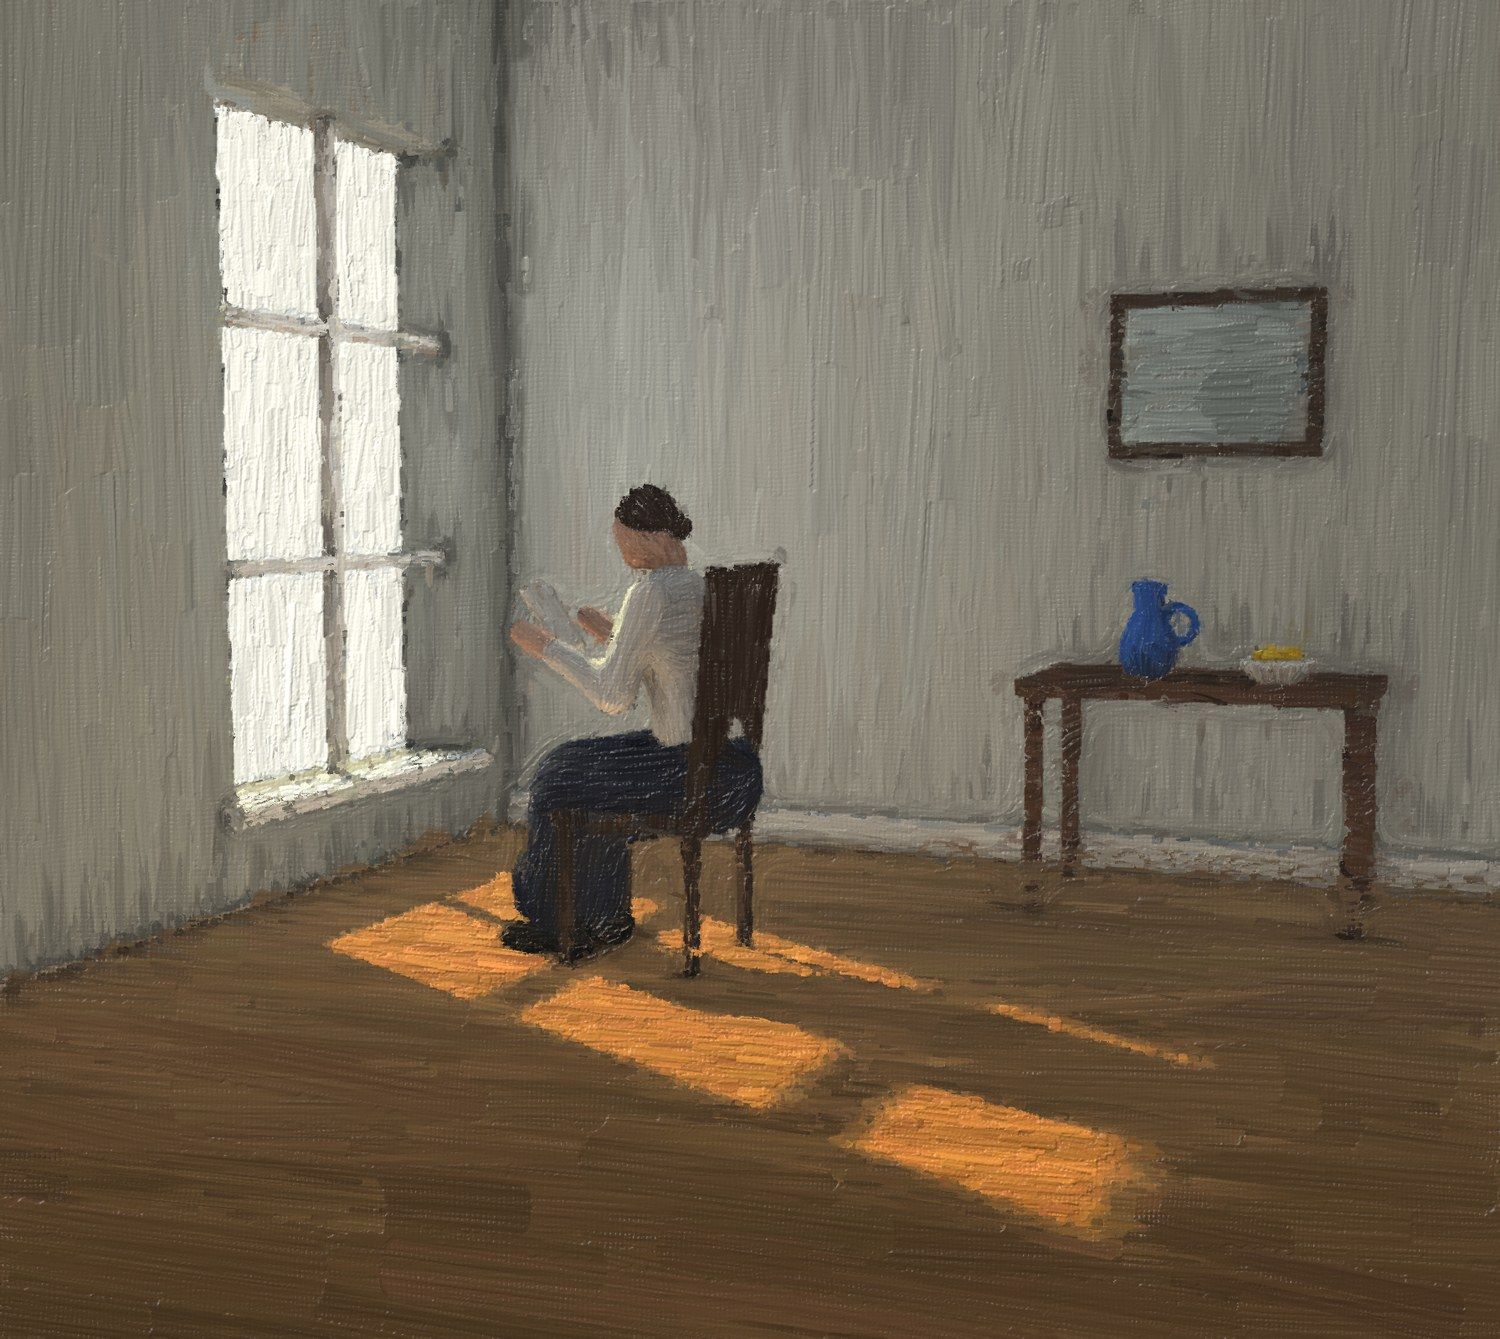
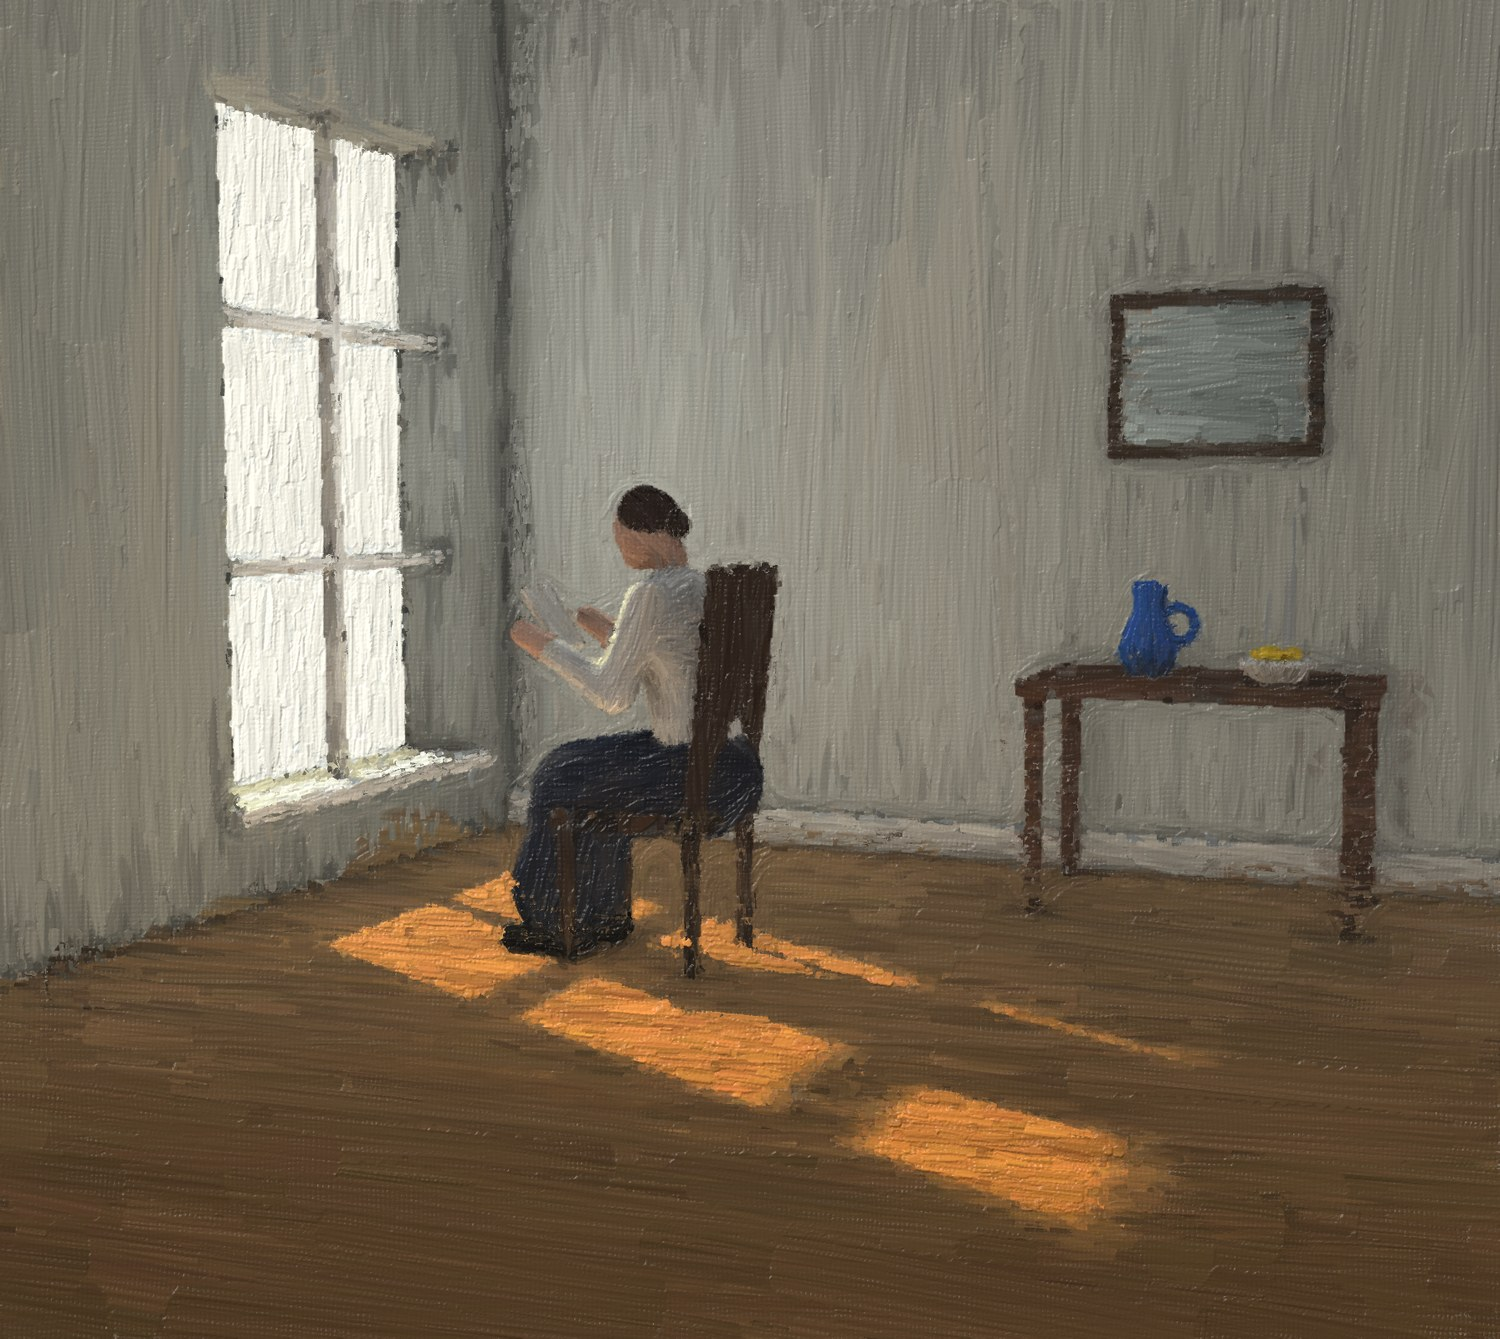
Stage masks for objects that share a name; motion.py drops stale frames first
- Scene.render joins the masks of objects with the same name instead of letting
  the last one replace the others. In The letter the knot of hair is now its own
  object (reader.hair.knot), so the reader's hair is planned and painted as a
  mass; the two published images are re-rendered from the corrected study.
- motion.py removes frames left by a film with other settings before it writes
  the new key, and a frame file appears only once it is whole, so an interrupted
  run cannot leave old frames under the new key.

Claude-Session: https://claude.ai/code/session_017dhVAAuNmHvMBg3wod6FzZ

diff --git a/skills/procedural-painting/scripts/motion.py b/skills/procedural-painting/scripts/motion.py
@@ -71,7 +71,8 @@ def render_frame(i):
     if not (G['reuse'] and os.path.exists(out)):
         p = Painting(G['W'], G['H'], seed=G['seed'], ground=G['ground'], log=False)
         p.replay(G['tape'], study_at(i))
-        p.save(out)
+        p.save(out + '.part.png')                             # a frame exists only once it is whole
+        os.replace(out + '.part.png', out)
     return i
 
 
@@ -113,6 +114,10 @@ def main():
     key = hashlib.sha1(repr((sig, W, H, a.keys, a.looseness, a.push, a.ground, a.seed, a.aov)).encode()).hexdigest()
     stamp = os.path.join(work, 'motion.key')
     reuse = os.path.exists(stamp) and open(stamp).read().strip() == key
+    if not reuse:                                            # frames of another film: gone before the new key is written
+        for f in [stamp] + [os.path.join(work, f'{i:05d}.png') for i in range(len(files))]:
+            if os.path.exists(f):
+                os.remove(f)
     with open(stamp, 'w') as f:
         f.write(key)
     G.update(files=files, W=W, H=H, push=a.push if a.push is not None else (1.0 if a.aov else 0.0),

diff --git a/skills/procedural-painting/studies/the_letter.py b/skills/procedural-painting/studies/the_letter.py
@@ -70,7 +70,7 @@ sc.add('chair', [box((FX - 0.16, SEAT - 0.02, FZ), (0.23, 0.02, 0.22)), box((FX 
 j = figure(sc, 'reader', at=(FX, 0, FZ), facing=-90, height=1.66, pose='read', seat=SEAT, skirt=True,
            top='#d9d3c5', bottom='#23252f', skin='#d2a184', hair='#33241c', shoes='#17130f', head_pitch=34, lean=10)
 mid = 0.5 * (j['hand_l'] + j['hand_r'])
-sc.add('reader.hair', ellipsoid(j['head'] + (0.085, 0.025, 0.0), (0.045, 0.042, 0.045)), '#33241c', importance=1.4)       # a knot of hair
+sc.add('reader.hair.knot', ellipsoid(j['head'] + (0.085, 0.025, 0.0), (0.045, 0.042, 0.045)), '#33241c', importance=1.4)       # a knot of hair
 sc.add('reader.letter', box(mid + (-0.03, 0.03, 0.0), (0.012, 0.105, 0.075), rot=(0, 0, 34)), '#f3ecd9', importance=2.0)
 
 B = sc.render(p)

diff --git a/skills/procedural-painting/scripts/stage.py b/skills/procedural-painting/scripts/stage.py
@@ -542,7 +542,8 @@ class Scene:
         for j, t in enumerate(order):
             m = (idim == j)
             if m.any():
-                B.masks[t.name] = np.clip(up_(m.astype(F32), Image.BILINEAR), 0, 1)
+                m = np.clip(up_(m.astype(F32), Image.BILINEAR), 0, 1)
+                B.masks[t.name] = np.maximum(B.masks[t.name], m) if t.name in B.masks else m     # two objects, one name: one mask
         B.masks['backdrop'] = np.clip(up_((idim < 0).astype(F32), Image.BILINEAR), 0, 1)
         if B.masks['backdrop'].max() < 0.5:
             del B.masks['backdrop']
